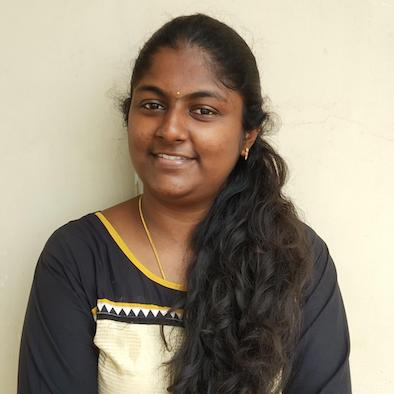
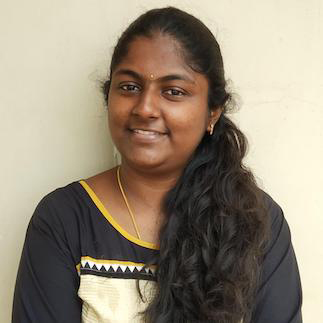
3/8/21 - 19:13

diff --git a/teen_programs.html b/teen_programs.html
@@ -8,7 +8,7 @@
       content="width=device-width, initial-scale=1, shrink-to-fit=no"
     />
     <link rel="icon" href="img/favicon.png" type="image/png" />
-    <title>ed-trix | Hack-Lab</title>
+    <title>ed-trix | Teen Programs</title>
     <!-- Bootstrap CSS -->
 
     <link rel="stylesheet" href="css/bootstrap.css" />
@@ -77,7 +77,7 @@
                   <a class="nav-link" href="about-us.html">About</a>
                 </li> -->
 
-               <li class="nav-item submenu dropdown">
+               <li class="nav-item submenu dropdown active">
                   <a
                     href="#"
                     class="nav-link dropdown-toggle"
@@ -97,7 +97,7 @@
                       >
                     </li>
                     <li class="nav-item">
-                      <a class="nav-link" href=""
+                      <a class="nav-link" href="teen_programs.html"
                         >Teen Program</a
                       >
                     </li>
@@ -188,7 +188,7 @@
 				<!-- <li class="nav-item">
                   <a class="nav-link" href="https://sites.google.com/edtrix.in/teendesigner/teen-designer">Summer Programs</a>
                 </li> -->
-                <li class="nav-item active">
+                <li class="nav-item">
                   <a class="nav-link" href="schoolconnect.html"
                     >School connect</a>
                 </li>
@@ -285,7 +285,7 @@
 
 <section class="feature_area section_gap_top" id="schoolconnect">
       <div class="container">
-        <h2 class="m-4 text-center">School Connect</h2>
+        <h2 class="m-4 text-center">Teen Programs</h2>
 <br>
         <div class="row justify-content-around">
         <!-- <div class="col-lg-6">
@@ -295,130 +295,35 @@
             
               
               
-                <p class="text-justify">Good Day!! 
-                  <br><br>
-                  This is an open invitation for schools to join hands with us to bring in the concepts of creative & design thinking into every classroom in India & globally. We offer various programs specially designed for schools to take the idea of ‘Creative Education’ to the next level.
-                  <br><br>
-                  Our programs go hand-in-hand with the National Education Policy of 2020 (NEP 2020). Collaborate with us to make a seamless transition to NEP 2020 & to incorporate cognitive development techniques into your curriculum. 
+                <p class="text-justify">Sneak peek into your future!<br><br>
 
+                    Want to be a creative director? An Entrepreneur? A digital artist? An architect? Engineer or a doctor? Or maybe even an astronaut?<br><br>
+                    Whatever you wish to be, here’s your chance to have a taste of what that career actually requires. <br><br>
+                    Various experts, institutes and organizations come together to offer you an unique insight into the field of your choice. <br><br>
+                    Workshops, Classes, hands-on activities to initiate you into the field of your choice. 
+                    
               </p>
         </div>
         <div class="col-12 justify-content-center mt-3">
 
-          <h2 class="text-center">What Programs do we offer?</h2>
+          <h2 class="text-center">Why take this program? 
+        </h2>
+            <div class="content text-justify lw-bullet" id="lw_content">
+             <ul>
+                <li>By understanding what your dream job curtails you can make better decisions about your future. </li>
 
+                <li>Be a jack of all trades by gaining hands-on experience in multiple fields.</li> 
+
+                <li>Increase your knowledge database and also have fun while learning. </li>
+                
+                <li>Stay tuned for more updates on the workshops. </li>
+                </ul>
+            </div>
         </div>  
 
 
         </div>  
-        <div class="row my-3 justify-content-around"> 
-          <div class="col-12 justify-content-center m-3 p-3">
-              <div class="text-center">
 
-                  <h3 class="mb-2">HACK-LAB</h3>
-                  <strong>For Ages -</strong>6 to 17 year olds <br>
-
-              </div>
-          </div>
-          <div class="col-lg-6 ">
-
-                  <p class="text-justify">Set up HACK-LAB in your schools to provide an immersive learning experience for your students by means of various workshops across disciplines such as Art, Design, Science and Technology, Mathematics, Social Sciences and Communication from the experts in those fields.
-                  <a href="hack-lab.html" class="primary-btn2 mt-4 btn-lg btn-block">Click here to know more</a>. 
-                    </p>
-
-          </div>
-
-          <div class="col-12 justify-content-center m-3 p-3">
-                      <div class="text-center">
-          
-                          <h3 class="mb-2">IDEATE</h3>
-                          <strong>For Ages -</strong>15 to 18 years<br>
-          
-                      </div>
-          </div>
-          <div class="col-lg-6"> 
-                  
-
-                  <p class="text-justify">IDEATE is an exclusive career awareness program that helps in discovering one’s potential, understanding their strengths and weaknesses and offers creative solutions to their future. With the NEP 2020 introducing stream selection to 8th standard students, help them make better decisions by organizing career awareness drives offered by IDEATE. 
-                  
-                  <a href="Ideate.html" class="primary-btn2 mt-4 btn-lg btn-block">Click here to know more</a>. 
-                  </p>   
-                  
-                  
-
-          </div>
-          <div class="col-12 justify-content-center m-3 p-3">
-                      <div class="text-center">
-          
-                          <h3 class="mb-2">Design Foundation Course</h3>
-                          <strong>For Ages -</strong>15 to 18 years<br>
-          
-                      </div>
-          </div>
-          <div class="col-lg-6"> 
-                  
-
-                  <p class="text-justify">Be a part of the Design revolution - <br>
-                  <br>  
-                    Design being a sunrise sector, is predicted to boom in the coming years. Experts are expecting the next big revolution to be instigated by Design. Help your students understand what design is by introducing them to Design Foundation Course. 
-                    <ul>
-                      <li>DFC has helped over 200 students to advance in their creative career journeys.</li>
-                      <li>Collaborations with over 5 schools </li>
-                      <li>94% of our students are placed in National Level Institutes</li>
-                    </ul>
-                  
-                  <a href="Ideate.html" class="primary-btn2 mt-4 btn-lg btn-block">Click here to know more</a>. 
-                  </p>   
-                  
-                  
-
-          </div>
-        </div>
-        <div class="col-12 justify-content-center m-3 p-3">
-            <div class="text-center">
-
-                <h3 class="mb-2 p-4">Why take up this program?</h3>
-
-            </div>
-            <div class="row d-flex justify-content-around">
-              <div class="col-12 col-lg-4 my-3">
-                <div class="text-center">
-                  <img src="img/school connect icon/noun_transition_3857052.svg" style="height: 100px; width: auto;" >
-                </div> 
-                <p class="d-flex justify-content-center ">Transition to NEP 2020 Seamlessly</p>
-
-              </div>
-              <div class="col-12 col-lg-4 my-3">
-                <div class="text-center">
-                  <img src="img/school connect icon/noun_Partner_3428321.svg" style="height: 100px; width: auto;" >
-                </div> 
-                <p class="d-flex justify-content-center ">Partnered labs for various vocational and multi-disciplinary workshops and classes.</p> 
-
-              </div>
-              <div class="col-12 col-lg-4 my-3">
-                <div class="text-center">
-                  <img src="img/school connect icon/noun_Learning_2509976.svg" style="height: 100px; width: auto;" >
-                </div> 
-                <p class="d-flex justify-content-center ">Implement learning outside of classrooms</p>
-              </div>
-              <div class="col-12 col-lg-4 my-3">
-                <div class="text-center">
-                  <img src="img/school connect icon/noun_education_2151491.svg" style="height: 100px; width: auto;" >
-                </div> 
-                <p class="d-flex justify-content-center ">Integrating NEP 2020 into your pedagogy</p>
-
-              </div>
-              <div class="col-12 col-lg-4 my-3">
-                <div class="text-center">
-                  <img src="img/school connect icon/noun_male lawyer avatar_2734298.svg" style="height: 100px; width: auto;" >
-                </div> 
-                <p class="d-flex justify-content-center ">Holistic and creative career counselling for the next generation of citizens. </p>  
-
-              </div>
-              <p class=" mt-4">Get in touch with us to know more about our programs or to get a quotation. <br>Reach us at<a href="tel:919500090521"> +91 95000 90521</a> or mail us at <a href="mailto:enquiry@edtrix.in"> enquiry@edtrix.in</a></p>
-            </div>
-
-        </div>
 		  
 		   
       </div>
@@ -462,7 +367,6 @@
             </div>
           </div>
         </div> -->
-      </div>
     </section>
 
 

diff --git a/team.html b/team.html
@@ -482,28 +482,7 @@
         </div>
 		
 		
-		<div class="row">
 		
-        <div class="col-7 col-lg-3 py-4">
-            <img src="img/team7.jpg" style="width:100%;" loading="lazy">
-        </div>
-          <div class="col-lg-9">
-            <div class="">
-              <h2>Kamaleshwar Mohan
-</h2>
-<p class="mb-4"><b>Animator</b></p>
-          
-                <p class="text-justify">Kamaleshwar Mohan is an animator and artist based out of chennai. He is a self-taught animator, who's into exploring different art styles and genres. He is an artist who's very much into experimenting with lighting colors and anatomy. He started off his career by doing concept arts, storyboards and illustrations for films and advertisements, then moved on to do lyrical animation for music videos. He is currently focusing on studying and exploring 2D animation. He is working with Ed-Trix on making the learning experience fun and exciting with his animations, which are very much simple and stylized that engages the kids and makes them interactive. 
-              </p>
-             
-              
-              
-            </div>
-          </div>
-		 <div class="col-lg-12">
-		 <div class="border-btm"></div>
-		 </div>
-        </div>
           <div class="row">
               <div class="col-7 col-lg-3 py-4">
                   <img src="img/team9.jpg" style="width:100%;" loading="lazy">
@@ -513,7 +492,7 @@
                     <h2>Pavithra Baskaran</h2>
                       <p class="mb-4"><b>Content Writer</b></p>
                 
-                      <p class="text-justify">Despite coming from an engineering background, Pavithra is drawn to the creative career fields. She is very experimental and is exploring design, digital art, theatre and other fine and performance art forms. But her primary mode of expression has always been writing. She has written plays and short stories which were performed at Alliance Francaise of Madras. Her stint as a freelance digital marketer during the year of 2019 got her interested in copy writing and she has now become a full time content writer. She believes that learning happens everyday and in unimaginable ways, hoping that she remains a student forever in the school of life. 
+                      <p class="text-justify">Despite coming from an engineering background, Pavithra is drawn to thde creative career fields. She is very experimental and is exploring design, digital art, theatre and other fine and performance art forms. But her primary mode of expression has always been writing. She has written plays and short stories which were performed at Alliance Francaise of Madras. Her stint as a freelance digital marketer during the year of 2019 got her interested in copy writing and she has now become a full time content writer. She believes that learning happens everyday and in unimaginable ways, hoping that she remains a student forever in the school of life. 
                     </p>
                   
                     
@@ -561,7 +540,7 @@
         <div class="row">
 		
               <div class="col-7 col-lg-3 py-4">
-                  <img src="img/Angela A.jpeg" style="width:100%;" loading="lazy">
+                  <img src="img/angela.jpg" style="width:100%;" loading="lazy">
               </div>
                 <div class="col-lg-9">
                   <div class="">
